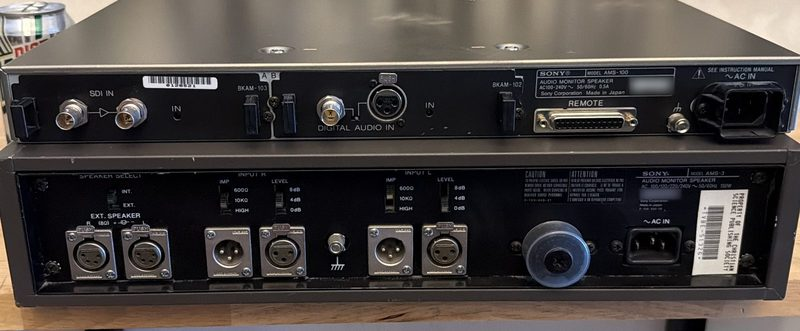
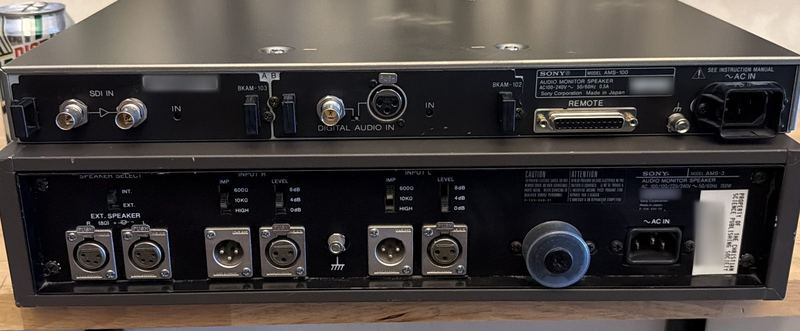
Blur the two asset barcodes on the AMS rear photo
David: 'Yes blur the serials on ams.' The two Sony spec-plate serials were
already redacted; these two were not.

  AMS-100 white barcode label   285,149 - 436,181
  former-owner asset sticker   1388,402 - 1449,531

Both regions are box-downsampled to roughly 1/22 scale, upsampled and
blurred, then composited through a 3px-feathered mask -- destructive, not a
recoverable soft blur, and it reads as the same quiet grey block as the two
plate redactions already in the frame.

The sticker's printed owner line is deliberately left legible. It is
provenance, not an identifier, and blurring it would remove the only thing
in the frame that says where this unit came from.

Nothing else in the photo changed: same 1600x662, same crop, same exposure.
Thumb re-derived from the redacted master. The single reference in
ams-3-vs-ams-100.html carries ?v=2 on both src and data-full; the sitemap
entry stays unversioned.

Claude-Session: https://claude.ai/code/session_01Hj3pg9fAsvuVVNQQcGoDh2

Changed region(s): [[0.8438, 0.6042, 0.9062, 0.8157], [0.1562, 0.2115, 0.2812, 0.3021]]

diff --git a/ams-3-vs-ams-100.html b/ams-3-vs-ams-100.html
@@ -173,7 +173,7 @@
 
     <p style="margin-bottom:1.1rem">The back panels tell the story even more plainly than the profile does. One unit is waiting for a digital stream; the other is waiting for a pair of balanced cables and a decision about impedance. Same shelf, same purpose, two completely different centuries of thinking about how sound gets from one box to another.</p>
 
-    <figure class="shot" style="margin:1.6rem 0"><img src="media/thumbs/ams-size-rear-v2.jpg" data-full="media/2026/ams-size-rear-v2.jpg" alt="Rear panels of both units: the AMS-100 with SDI and digital audio inputs and option card slots, the AMS-3 with six XLR connectors and external speaker outputs" loading="lazy" width="800" height="331"><figcaption><b>Back to back</b> — the AMS-100 wants SDI and digital audio. The AMS-3 wants balanced XLR, with impedance and level switches per channel and outputs for external speakers</figcaption></figure>
+    <figure class="shot" style="margin:1.6rem 0"><img src="media/thumbs/ams-size-rear-v2.jpg?v=2" data-full="media/2026/ams-size-rear-v2.jpg?v=2" alt="Rear panels of both units: the AMS-100 with SDI and digital audio inputs and option card slots, the AMS-3 with six XLR connectors and external speaker outputs" loading="lazy" width="800" height="331"><figcaption><b>Back to back</b> — the AMS-100 wants SDI and digital audio. The AMS-3 wants balanced XLR, with impedance and level switches per channel and outputs for external speakers</figcaption></figure>
 
     <h2 class="sec">A previous life</h2>
 
